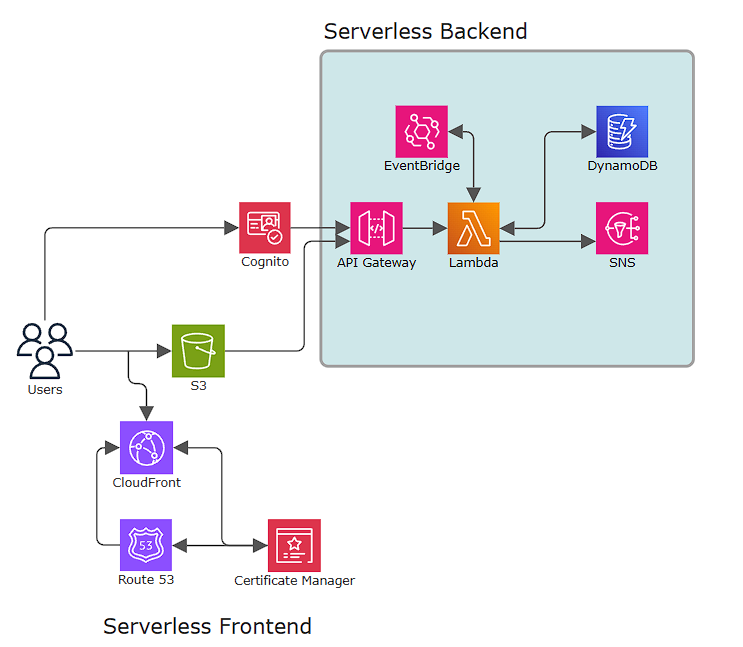
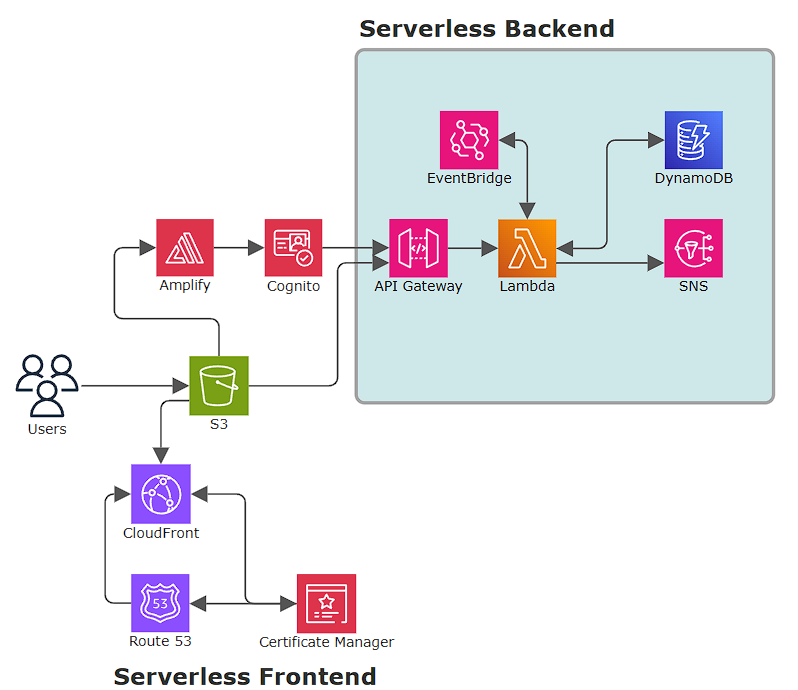
Update README for Clarity
Added new architecture diagram for readme.

diff --git a/README.md b/README.md
@@ -1,9 +1,18 @@
 # Cue2Cue
 
-Cue2Cue is an application which helps solve the issue of attendance and announcements for cultural orgs who host dance performances for their cultural shows. Need a way to communicate with your dancers about call times and hell week updates? Choose Cue2Cue a UF student built and maintained application.
+Cue2Cue is an application which helps solve the issue of attendance and announcements for cultural orgs who host dance performances for their cultural shows. 
+
+Need a way to communicate with your dancers about call times and hell week updates? Text your dancers instead of relying on Discord!
+
+**Key Features:**
+- Mass Automated Call Time Notifications
+- Rehearsal Schedule Management
+- Mass Real-Time Announcements for Dancers of Hell Week Updates
+
+Originally developed for UF student organizations, Cue2Cue simplifies performance coordination through an easy-to-use platform.
 
 ## Tools
-Built a static frontend using Vue.js, TypeScript, and Tailwind hosted on **S3** and served using **CloudFront**. 
+Built a static frontend using _Vue.js_, _TypeScript_, and _Tailwind_ hosted on **S3** and served using **CloudFront**. Used **AWS Amplify** for user token storage.
 
 User Authentication handled by **AWS Cognito** allowing for Google Auth.
 
@@ -25,5 +34,3 @@ in-progress
 
 Pull requests are welcome. For major changes, please open an issue first
 to discuss what you would like to change.
-
-Please make sure to update tests as appropriate.
